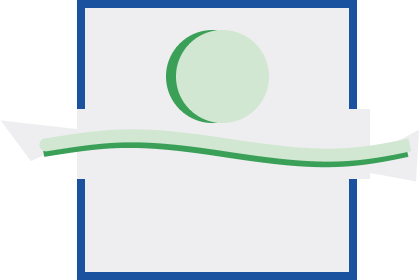
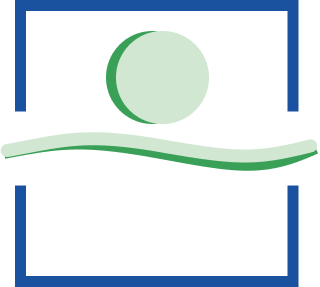
up

diff --git a/Index.html b/Index.html
@@ -6,7 +6,7 @@
     <meta name="viewport" content="width=device-width, initial-scale=1.0">
     <title >SOLIVANE</title>
     <link href="style.css" rel="stylesheet">
-    <link rel="shortcut icon" href="IMG\IT.jpg">
+    <link rel="shortcut icon" href="IMG/SOLIVANE.png">
     
 </head>
 <body>
@@ -46,17 +46,27 @@
         </div>
 
      </div>
-                          <!-- 5 POINT -->
+                          <!--five-point -->
 
-     <div class="5 POINT">
-        <h1>LA CARAVANE MÉDICALE EN 5 POINTS</h1>
 
-        <h3><img src="IMG\medkit.svg"> Médecins offrent leurs soins</h3>
-        <h3><img src="IMG\globe-africa.svg" >A des femmes enceintes isolées partout dans le Maroc</h3>
-        <h3><img src="C:\Users\Solicode\Desktop\Brief-5\IMG\truck.svg" > Depuis un camion aménagé en cabinet médical</h3>
-        <h3><img src="IMG\coins.svg" >Grâce aux dons du grand public</h3>
-        <h3><img src="IMG\campground.svg" >En s’appuyant sur des associations locales</h3>
-     </div>
+            <h1 id="--five-point">LA CARAVANE MÉDICALE EN 5 POINTS</h1>
+  
+         <div class="icons">
+            <img src="IMG/medkit.svg">
+            <img src="IMG/globe-africa.svg" >
+            <img src="IMG/truck.svg" >
+            <img src="IMG/coins.svg" >
+            <img src="IMG/campground.svg" >
+         </div>
+
+        <div class="phrases">
+        <p>Médecins offrent leurs soins</p>
+        <p>A des femmes enceintes isolées partout dans le Maroc</p>
+        <p> Depuis un camion aménagé en cabinet médical</p>
+        <p>Grâce aux dons du grand public</p>
+        <p>En s’appuyant sur des associations locales</p>
+         </div>
+     
 
      
 </body>

diff --git a/style.css b/style.css
@@ -59,3 +59,19 @@ nav #plus {
      text-align: center;
      margin: 0 50% 10% 0;
  } 
+
+ #five-point{
+     text-align: center;
+ }
+ .icons{
+    display: grid;
+    grid-template-columns: auto auto auto auto auto;
+    grid-gap: 20%;
+    max-width: 80%;
+    margin: 0% 0% 0% 6%;
+    
+}
+.phrases{
+    display: grid;
+    grid-template-columns: auto auto auto auto auto;
+}
